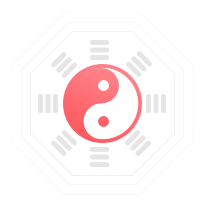
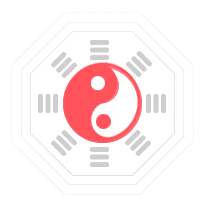
AS

Changed region(s): [[0.2913, 0.2913, 0.699, 0.699], [0.2913, 0.5243, 0.3204, 0.5534]]

diff --git a/src/views/fortunetellers/addfortun.vue b/src/views/fortunetellers/addfortun.vue
@@ -1,7 +1,7 @@
 <template>
     <div class="fortunecontent" >
              <div class="fortunecon">
-                <img src="../../assets/img/43@3x.png" alt="">
+                <img src="../../assets/img/25.png" alt="">
                 <!-- <i class="fortuneicon fortuneicons"></i> -->
                 <p class="fortunep">{{$t(nobirth)}}</p>
                 <button class="fortunebutton" @click="showAdd">{{$t(add)}}</button>
